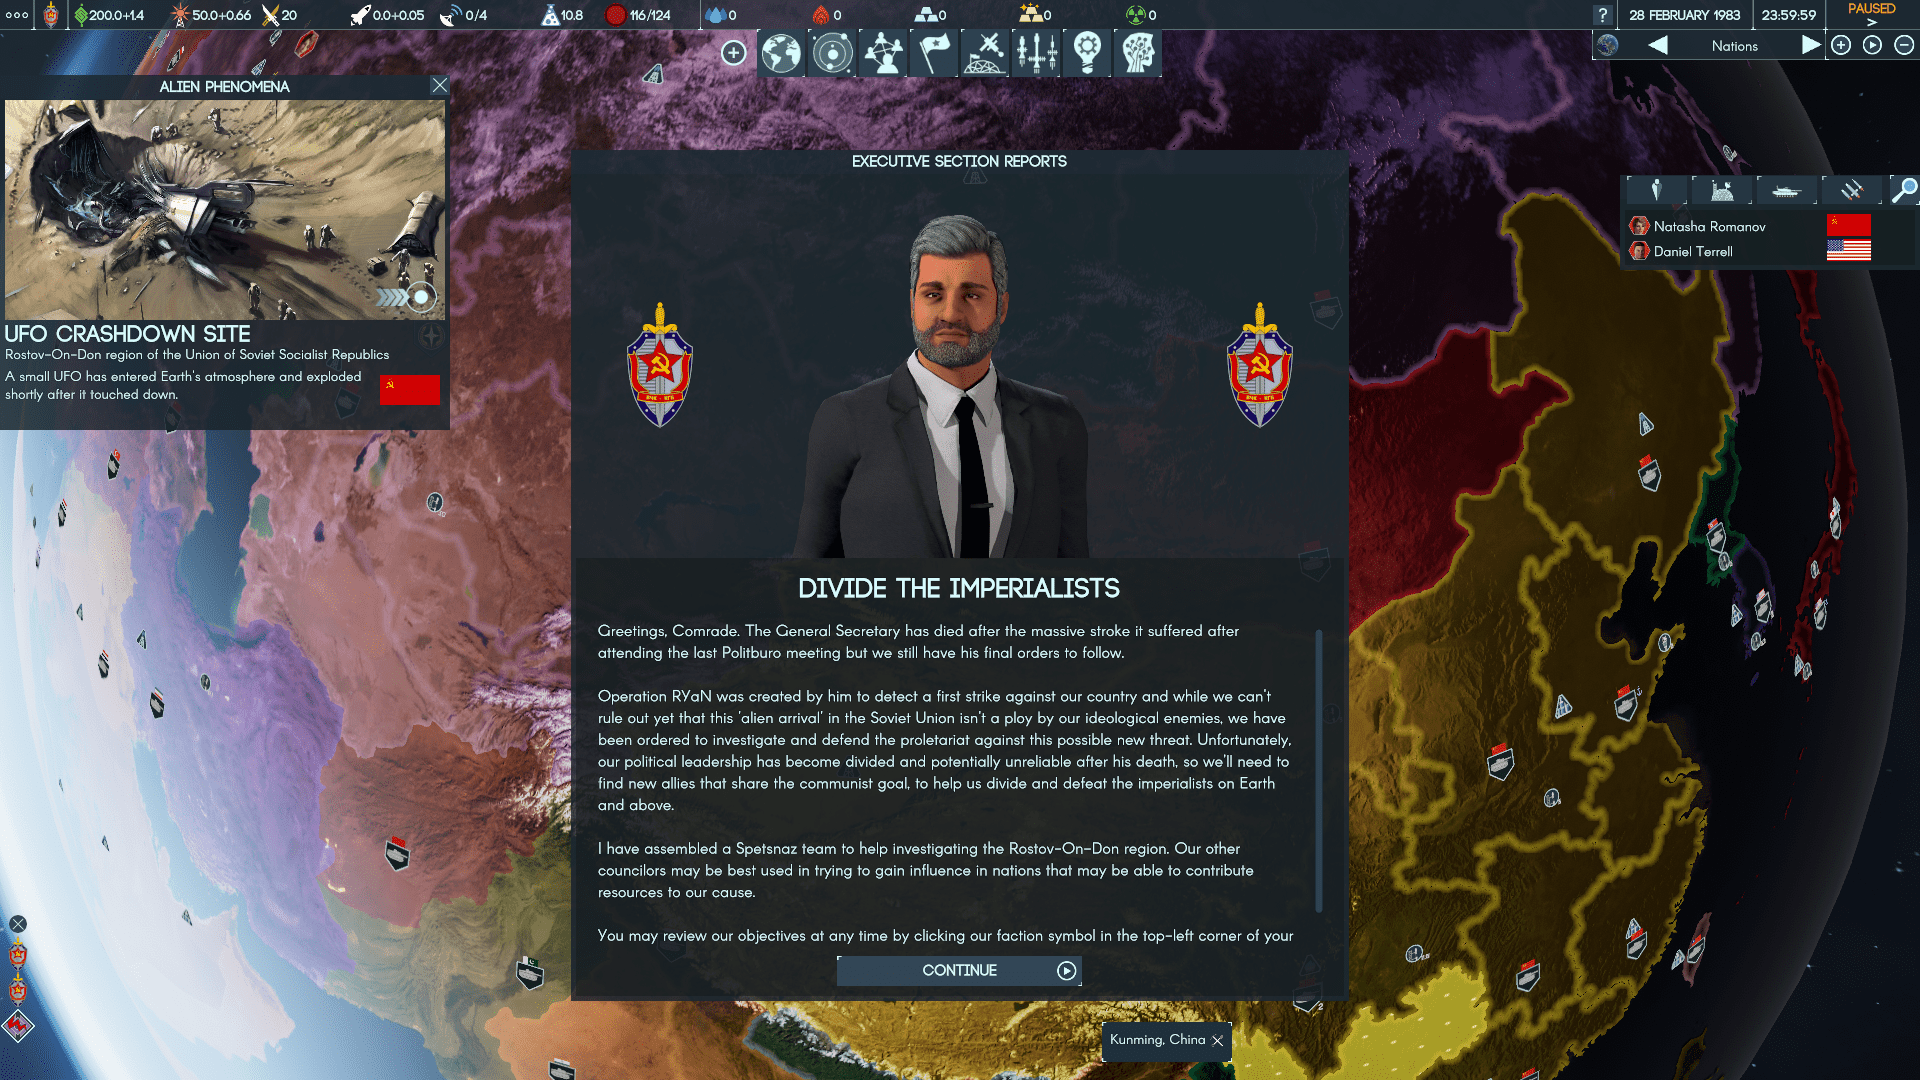
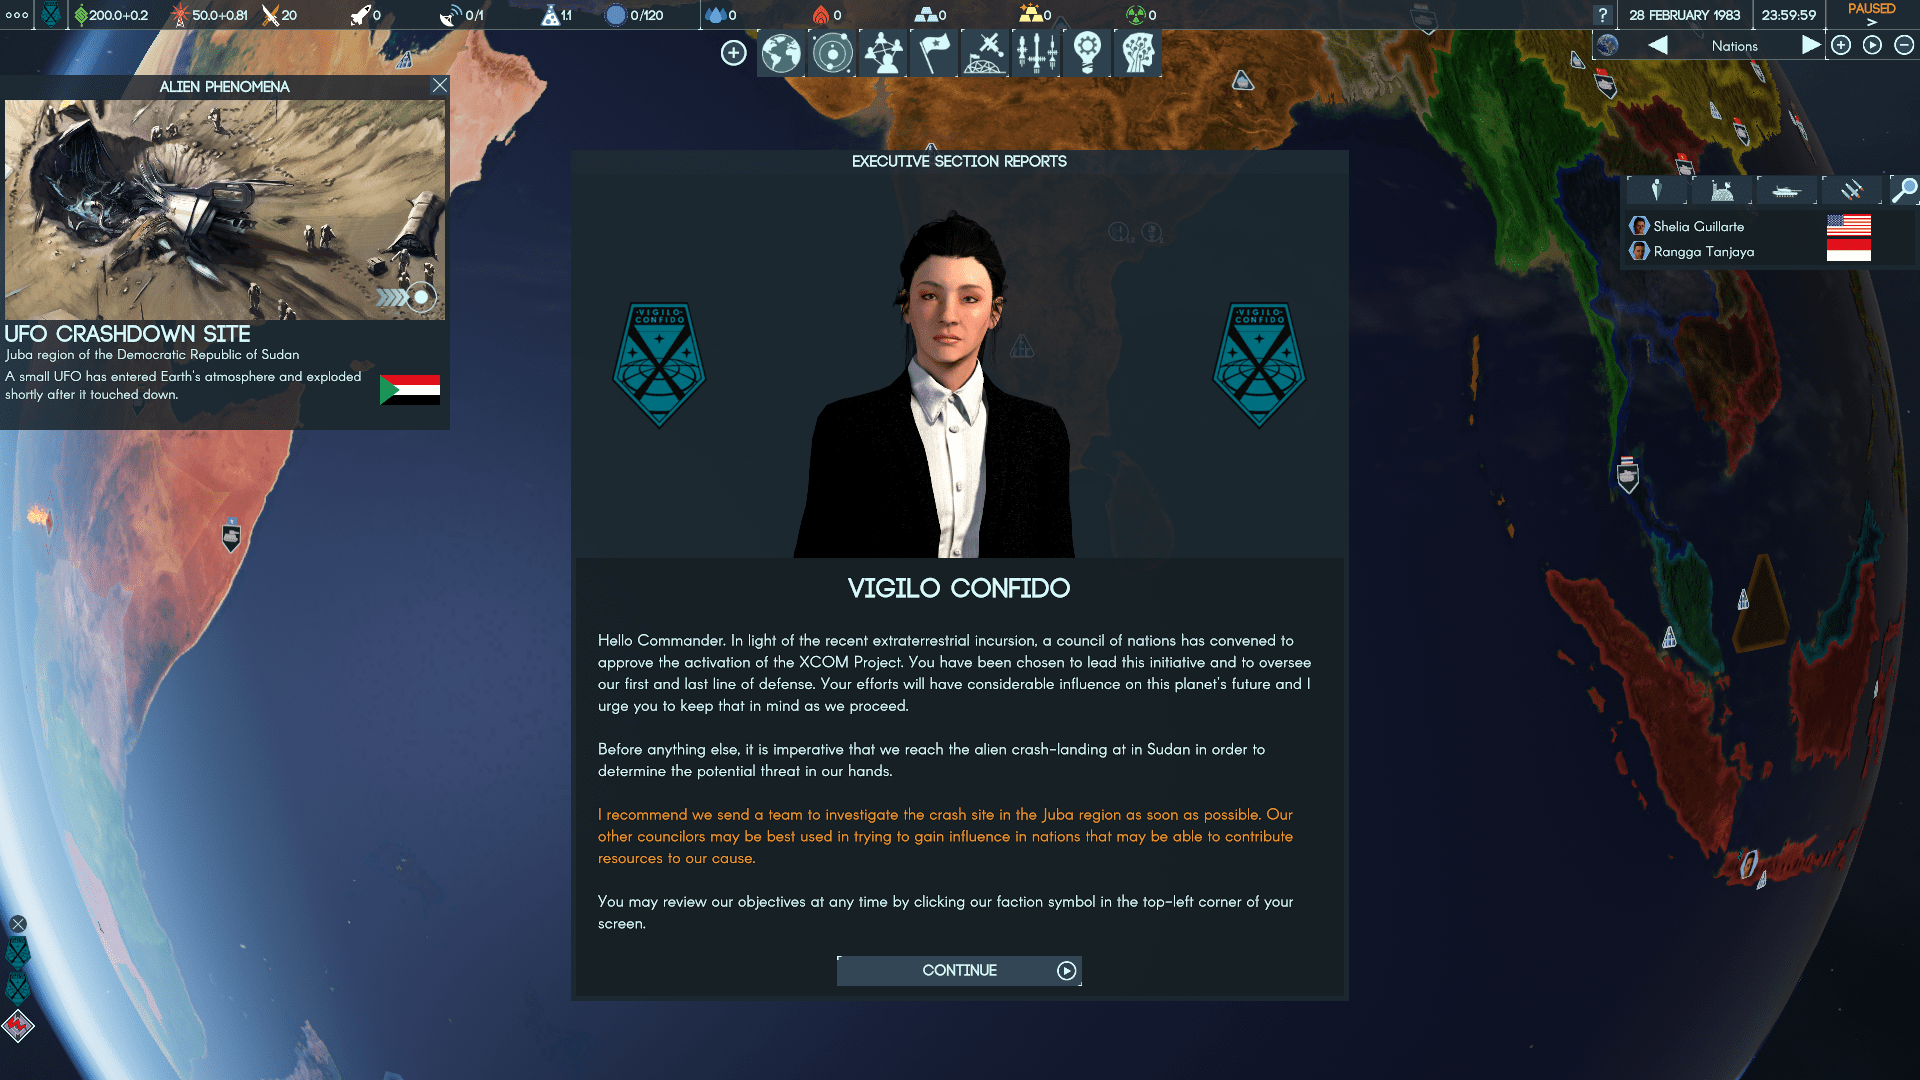
0.1.9

diff --git a/README.md b/README.md
@@ -1,12 +1,12 @@
 The aliens arrive at Earth at one of the heights of the Cold War to find it divided between the Western and Eastern blocs, both heavily armed and ready for WW3.
 
-Public Repository: https://github.com/Hobbes74/Terra-Invicta-1983
+Public Repository: https://github.com/Hobbes74/Terra-Invicta-XCOM-1983
 Steam Workshop: https://steamcommunity.com/sharedfiles/filedetails/?id=2977414079
 
-Work in progress. Requires the latest beta versions of Terra Invicta.
+Work in progress. Requires the latest beta version of Terra Invicta.
 
 Includes:
-* Seven new player factions to replace the vanilla ones: Secretariat, Operation RYaN, Authority, New World Order, SDI, Gladio and SETI Project;
+* Seven new player factions to replace the vanilla ones: XCOM, Operation RYaN, Authority, New World Order, SDI, Gladio and SETI Project;
 * The nations and the bilateral relationships have been reset to the year of 1983, with the corresponding flags and names;
 * Starting armies increased and renamed;
 * 30 Eastern Bloc historical organizations: KGB, Stasi, Spetsnaz, Pravda, TASS, MiG, Sukhoi, Tupolev and others;
